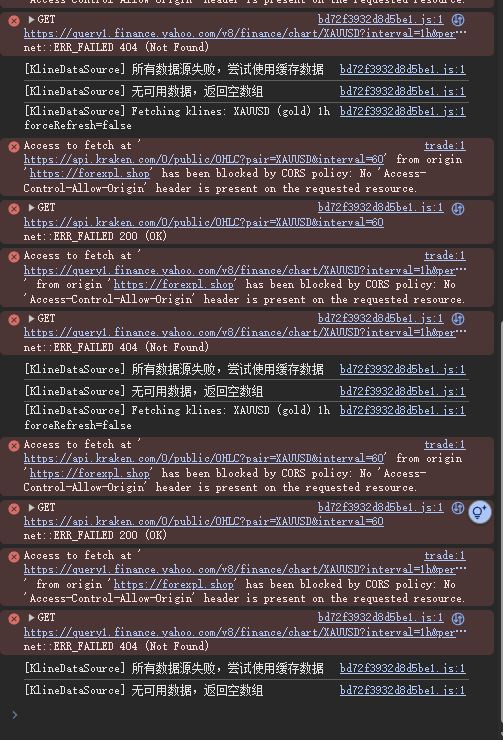
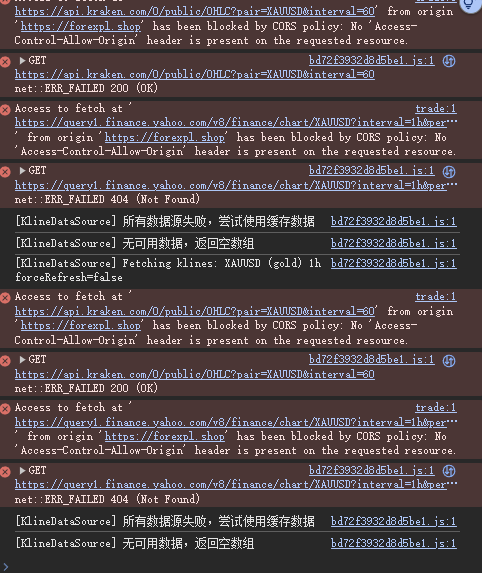
fix: 修复前端代码，所有数据源通过代理API获取
**问题：**
- 黄金数据通过 /api/goldapi-klines 代理获取（无CORS）✅
- 外汇和能源直接调用 fetchYahooFinanceKlines（有CORS）❌

**解决方案：**
- 更新 /api/market/klines 代理 API，添加 Yahoo Finance 支持
- 修改 kline-data-source.ts：
  - 外汇和能源通过 /api/market/klines 代理获取
  - 黄金数据源失败时也通过代理 API 获取

**修改文件：**
- src/app/api/market/klines/route.ts
- src/lib/kline-data-source.ts

diff --git a/src/app/api/market/klines/route.ts b/src/app/api/market/klines/route.ts
@@ -2,12 +2,11 @@ import { NextRequest, NextResponse } from 'next/server';
 
 /**
  * K线行情代理 API
- * 
+ *
  * 解决 CORS 问题，支持多个数据源：
  * - Kraken
  * - Yahoo Finance
- * - Finnhub
- * 
+ *
  * GET /api/market/klines?symbol=XAUUSD&interval=1h&source=kraken
  */
 
@@ -36,6 +35,16 @@ const KRAKEN_INTERVAL_MAP: { [key: string]: number } = {
   '1h': 60,
   '4h': 240,
   '1d': 1440,
+};
+
+// Yahoo Finance 时间间隔映射
+const YAHOO_INTERVAL_MAP: { [key: string]: string } = {
+  '1m': '1m',
+  '5m': '5m',
+  '15m': '15m',
+  '1h': '1h',
+  '4h': '1d',
+  '1d': '1d',
 };
 
 /**
@@ -89,6 +98,89 @@ async function fetchFromKraken(symbol: string, interval: string): Promise<KlineD
 }
 
 /**
+ * 从 Yahoo Finance 获取 K线数据
+ */
+async function fetchFromYahoo(symbol: string, interval: string, limit: number): Promise<KlineData[]> {
+  // 转换交易对格式为 Yahoo Finance 格式
+  let yahooSymbol = symbol;
+
+  // Forex: EURUSD -> EURUSD=X
+  if (!symbol.includes('=')) {
+    yahooSymbol = `${symbol}=X`;
+  }
+
+  // 转换时间周期为 Yahoo Finance 格式
+  const intervalYahoo = YAHOO_INTERVAL_MAP[interval] || '1h';
+
+  // 计算时间范围
+  const intervalSeconds = {
+    '1m': 60,
+    '5m': 300,
+    '15m': 900,
+    '1h': 3600,
+    '4h': 14400,
+    '1d': 86400,
+  }[interval] || 3600;
+
+  const to = Math.floor(Date.now() / 1000);
+  const from = to - (intervalSeconds * limit);
+
+  const url = `https://query1.finance.yahoo.com/v8/finance/chart/${yahooSymbol}?interval=${intervalYahoo}&period1=${from}&period2=${to}`;
+
+  console.log('[Klines Proxy] 从 Yahoo Finance 获取:', { yahooSymbol, intervalYahoo, from, to });
+
+  try {
+    const response = await fetch(url, {
+      signal: AbortSignal.timeout(10000),
+    });
+
+    if (!response.ok) {
+      console.warn('[Klines Proxy] Yahoo Finance 请求失败:', response.status);
+      return [];
+    }
+
+    const data = await response.json();
+
+    if (!data.chart?.result?.[0]?.timestamp) {
+      console.warn('[Klines Proxy] Yahoo Finance 无有效数据');
+      return [];
+    }
+
+    const result = data.chart.result[0];
+    const timestamps = result.timestamp;
+    const indicators = result.indicators;
+    const quote = indicators.quote?.[0] || {};
+
+    const klines: KlineData[] = [];
+
+    for (let i = 0; i < timestamps.length; i++) {
+      const open = quote.open?.[i];
+      const high = quote.high?.[i];
+      const low = quote.low?.[i];
+      const close = quote.close?.[i];
+      const volume = quote.volume?.[i] || 0;
+
+      if (open !== null && high !== null && low !== null && close !== null) {
+        klines.push({
+          time: timestamps[i],
+          open: Number(open),
+          high: Math.max(Number(high), Number(open), Number(close)),
+          low: Math.min(Number(low), Number(open), Number(close)),
+          close: Number(close),
+          volume: Number(volume),
+        });
+      }
+    }
+
+    console.log(`[Klines Proxy] Yahoo Finance 获取到 ${klines.length} 条数据`);
+    return klines;
+  } catch (error) {
+    console.error('[Klines Proxy] Yahoo Finance 错误:', error);
+    return [];
+  }
+}
+
+/**
  * GET - 获取 K线数据
  */
 export async function GET(request: NextRequest) {
@@ -96,7 +188,7 @@ export async function GET(request: NextRequest) {
   const symbol = searchParams.get('symbol') || 'XAUUSD';
   const interval = searchParams.get('interval') || '1h';
   const limit = parseInt(searchParams.get('limit') || '200', 10);
-  const source = searchParams.get('source') || 'kraken';
+  const source = searchParams.get('source') || 'auto';
 
   console.log('[Klines Proxy] 请求:', { symbol, interval, limit, source });
 
@@ -105,8 +197,15 @@ export async function GET(request: NextRequest) {
   // 根据数据源获取 K线
   if (source === 'kraken') {
     klines = await fetchFromKraken(symbol, interval);
+  } else if (source === 'yahoo') {
+    klines = await fetchFromYahoo(symbol, interval, limit);
+  } else if (source === 'auto') {
+    // 自动选择：优先 Yahoo Finance（外汇），失败则尝试 Kraken
+    klines = await fetchFromYahoo(symbol, interval, limit);
+    if (klines.length === 0) {
+      klines = await fetchFromKraken(symbol, interval);
+    }
   } else {
-    // 其他数据源（可以后续添加）
     klines = [];
   }
 

diff --git a/src/lib/kline-data-source.ts b/src/lib/kline-data-source.ts
@@ -793,29 +793,45 @@ export async function fetchKlines(
       console.log('[KlineDataSource] GoldAPI 调用失败，尝试其他数据源:', error)
     }
 
-    // 如果 GoldAPI 失败，尝试 Finnhub API
+    // 如果 GoldAPI 失败，尝试代理 API（支持 Kraken 和 Yahoo Finance）
     if (klines.length === 0) {
-      klines = await fetchFinnhubKlines(symbol, interval, limit)
-    }
+      try {
+        const response = await fetch(`/api/market/klines?symbol=${symbol}&interval=${interval}&limit=${limit}&source=auto`, {
+          cache: 'no-store',
+          signal: AbortSignal.timeout(10000)
+        })
 
-    // 如果 Finnhub 失败，尝试 Kraken API
-    if (klines.length === 0) {
-      klines = await fetchKrakenKlines(symbol, interval, limit)
-    }
-
-    // 如果 Kraken 也失败，尝试 Twelve Data
-    if (klines.length === 0) {
-      klines = await fetchTwelveDataKlines(symbol, interval, limit)
-    }
-
-    // 如果 Twelve Data 也失败，尝试 Yahoo Finance
-    if (klines.length === 0) {
-      klines = await fetchYahooFinanceKlines(symbol, interval, limit)
+        if (response.ok) {
+          const data = await response.json()
+          if (data.success && data.klines && data.klines.length > 0) {
+            klines = data.klines
+            console.log(`[KlineDataSource] 从代理 API 获取 ${klines.length} 条数据`)
+          }
+        }
+      } catch (error) {
+        console.log('[KlineDataSource] 代理 API 调用失败:', error)
+      }
     }
   }
-  // Forex, Oil: 使用 Yahoo Finance API
+  // Forex, Oil: 使用服务端代理 API（避免 CORS）
   else if (category === 'forex' || category === 'energy') {
-    klines = await fetchYahooFinanceKlines(symbol, interval, limit)
+    try {
+      // 通过服务端 API 代理调用数据源
+      const response = await fetch(`/api/market/klines?symbol=${symbol}&interval=${interval}&limit=${limit}&source=auto`, {
+        cache: 'no-store',
+        signal: AbortSignal.timeout(10000)  // 10秒超时
+      })
+
+      if (response.ok) {
+        const data = await response.json()
+        if (data.success && data.klines && data.klines.length > 0) {
+          klines = data.klines
+          console.log(`[KlineDataSource] 从代理 API 获取 ${klines.length} 条数据`)
+        }
+      }
+    } catch (error) {
+      console.log('[KlineDataSource] 代理 API 调用失败:', error)
+    }
   }
 
   // 如果获取成功，缓存并返回真实数据
